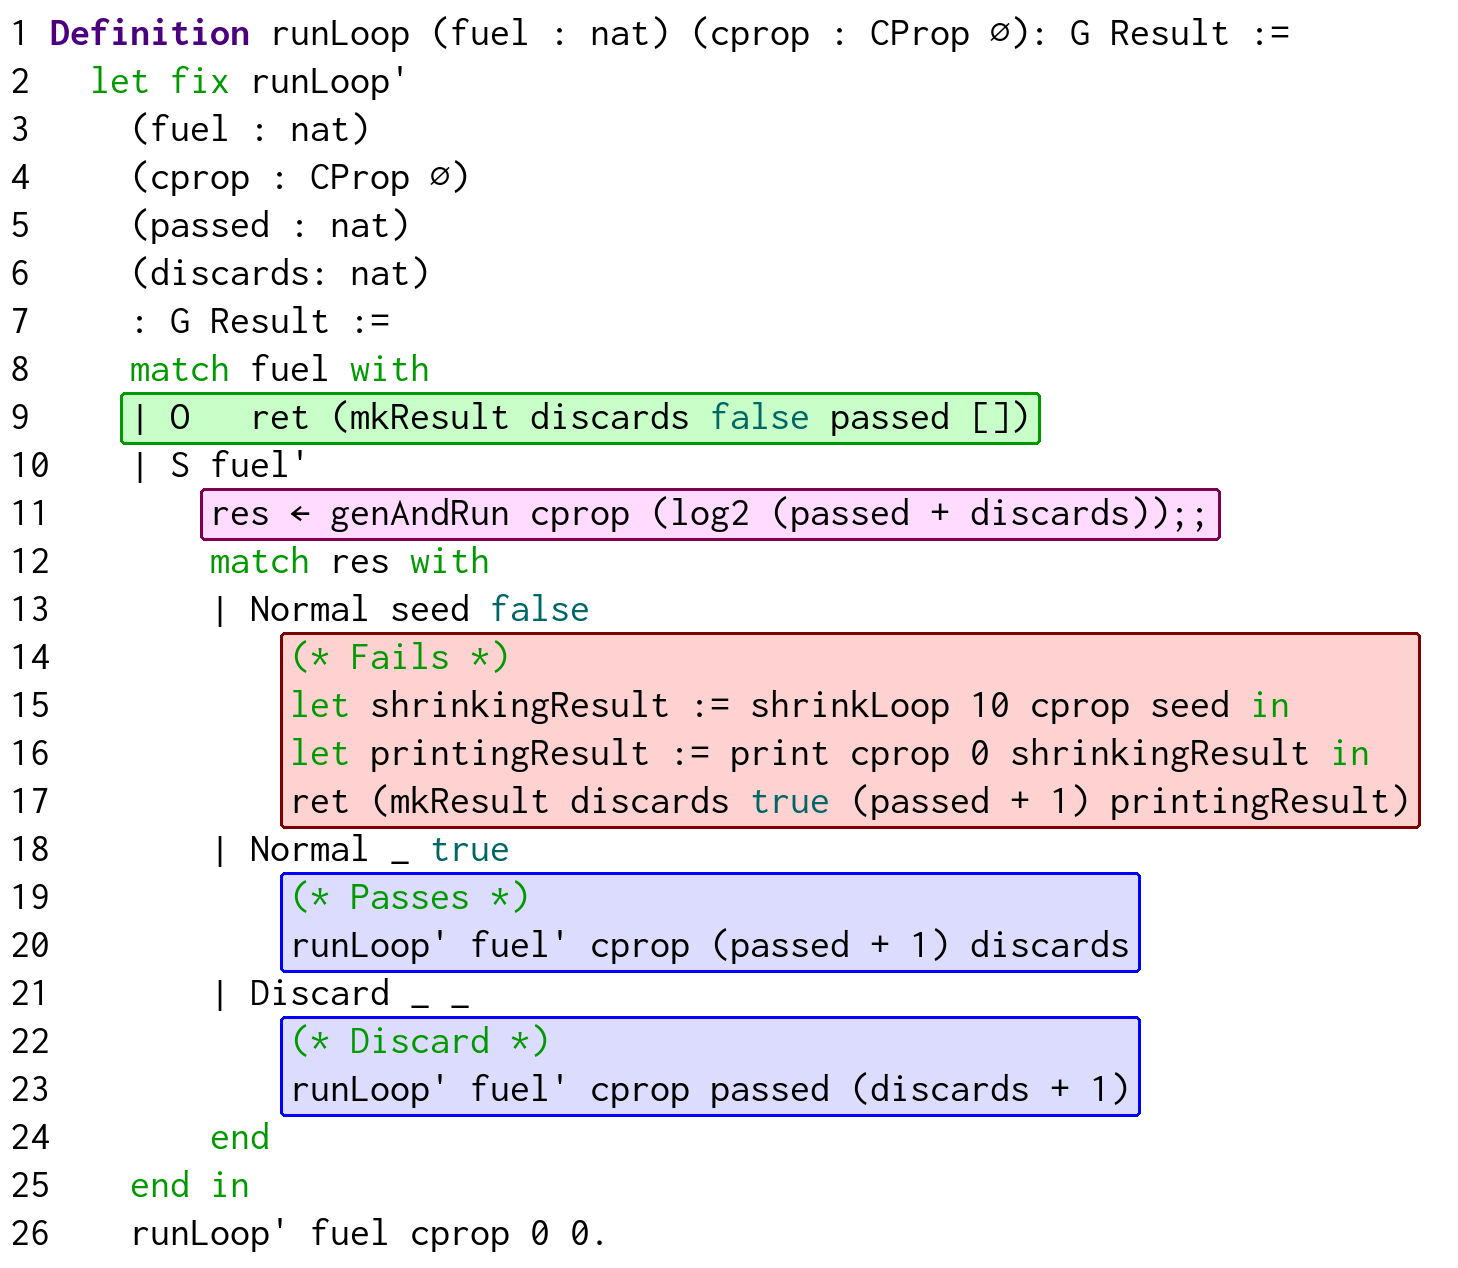
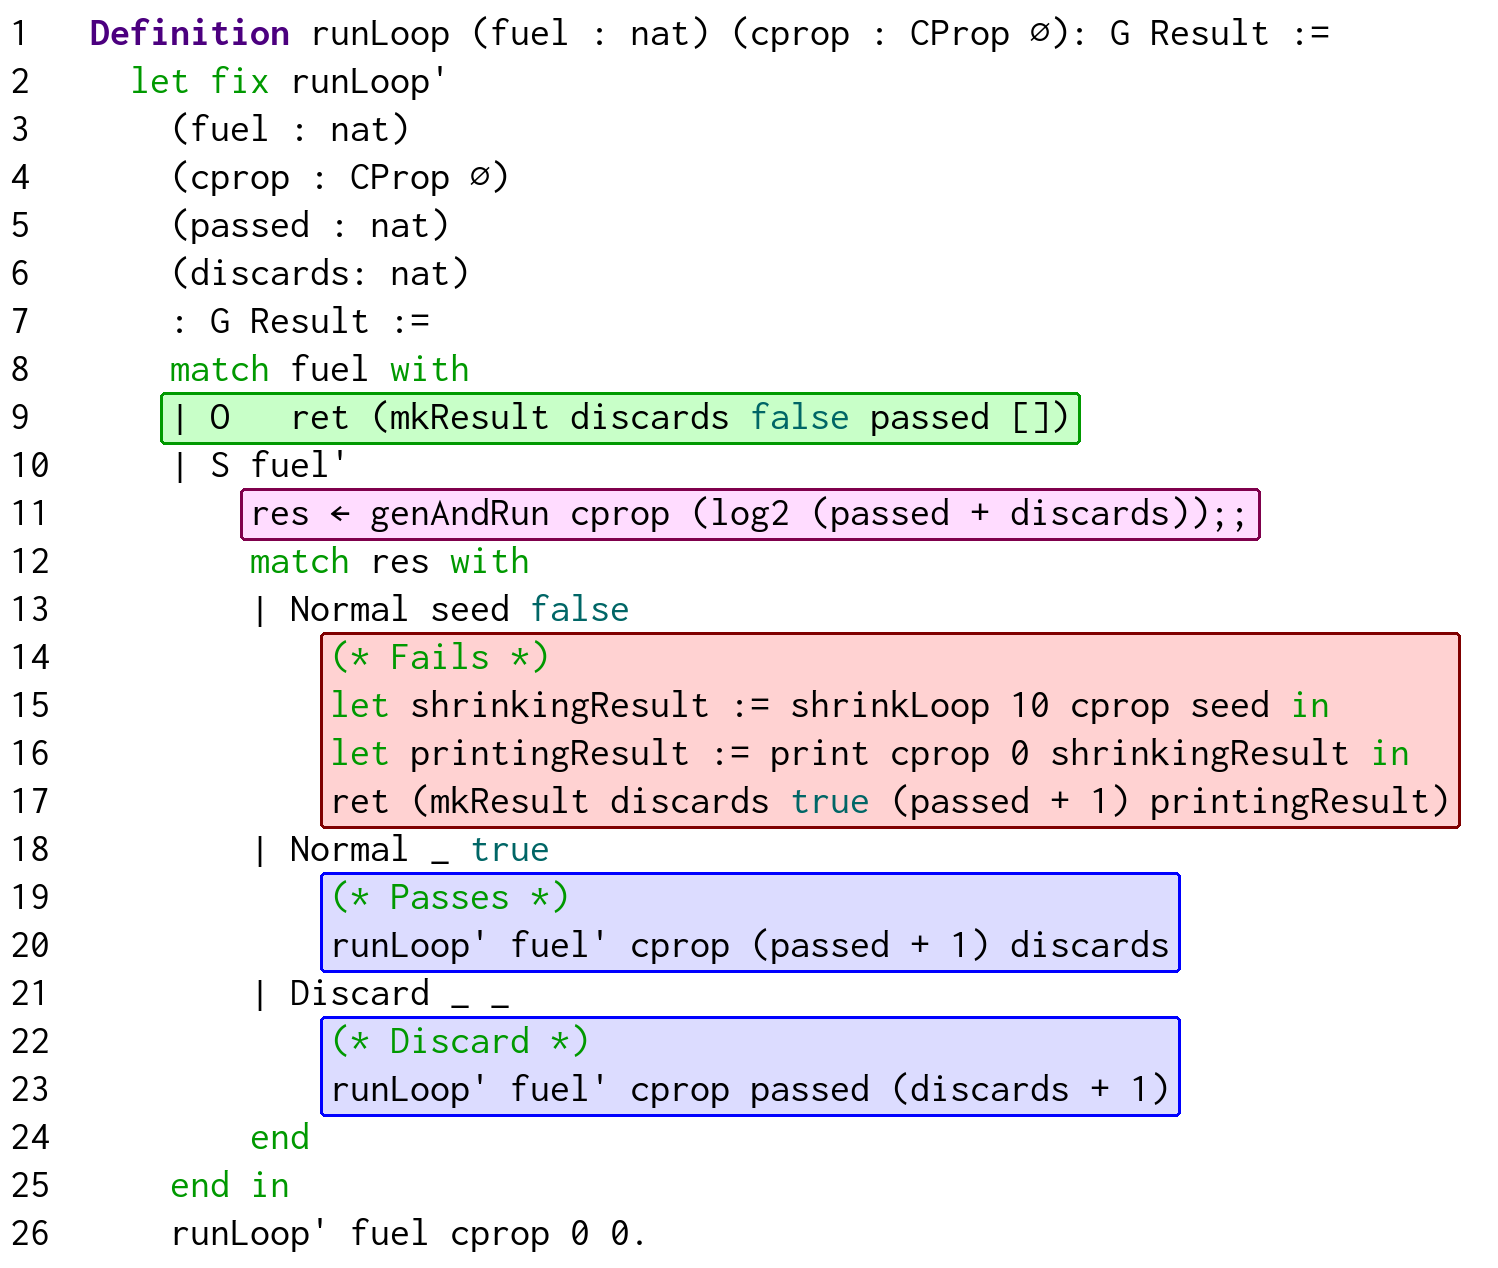
add labels and children

diff --git a/coderender.py b/coderender.py
@@ -235,24 +235,20 @@ colors = {
     "dkgreen": (0, int(0.6 * 255), 0),
     "ltgreen": (200, 255, 200),
     "bggreen": (200, 255, 200),
-
     "dkblue": (0, 0, 255),
     "ltblue": (0, int(0.4 * 255), int(0.4 * 255)),
     "bgblue": (220, 220, 255),
-    
     "dkviolet": (int(0.3 * 255), 0, int(0.5 * 255)),
     "ltviolet": (255, 200, 255),
     "bgviolet": (255, 200, 255),
-    
     "dkpurple": (int(0.5 * 255), 0, int(0.3 * 255)),
     "ltpurple": (255, 220, 255),
     "bgpurple": (255, 220, 255),
-    
     "dkred": (int(0.5 * 255), 0, 0),
     "ltred": (255, 210, 210),
     "bgred": (255, 210, 210),
-    
     "black": (0, 0, 0),
+    "white": (255, 255, 255),
 }
 
 ligatures = {
@@ -266,6 +262,7 @@ ligatures = {
     "===>": "==>",
 }
 
+
 def tokenize(code):
     # A token is either a string or a whitespace character
     tokens = []
@@ -277,11 +274,10 @@ def tokenize(code):
                 current_token = ""
             tokens.append(char)
         else:
-            current_token += char 
+            current_token += char
     if current_token:
         tokens.append(current_token)
     return tokens
-
 
 
 def line_widths(elements):
@@ -302,8 +298,10 @@ def render_coq(code, font_size, line_numbers, markers, output_file):
         # "N": ImageFont.truetype("Libertine/LinLibertine_R.ttf", font_size),
         # "B": ImageFont.truetype("Libertine/LinLibertine_RB.ttf", font_size),
         # "I": ImageFont.truetype("Libertine/LinLibertine_RI.ttf", font_size),
-        'N': ImageFont.truetype("Inconsolata/static/Inconsolata-Regular.ttf", font_size),
-        'B': ImageFont.truetype("Inconsolata/static/Inconsolata-Bold.ttf", font_size),
+        "N": ImageFont.truetype(
+            "Inconsolata/static/Inconsolata-Regular.ttf", font_size
+        ),
+        "B": ImageFont.truetype("Inconsolata/static/Inconsolata-Bold.ttf", font_size),
         # 'I': ImageFont.truetype("/Users/akeles/Programming/projects/PbtBenchmark/coderenderer/Inconsolata/static/Incosolata-Italic.ttf", font_size),
     }
 
@@ -313,18 +311,21 @@ def render_coq(code, font_size, line_numbers, markers, output_file):
     code = code.strip()
     elements = []
 
+    def marker_to_element(marker):
+        return {
+            "type": "line_based_rounded_rectangle",
+            "lines": marker["lines"],
+            "fill": colors["bg" + marker["color"]],
+            "outline": colors["dk" + marker["color"]],
+            "children": list(map(marker_to_element, marker.get("children", []))),
+            "label": marker.get("label"),
+            "width": 3,
+            "radius": 5,
+            "z": 0,
+        }
+
     for marker in markers:
-        elements.append(
-            {
-                "type": "line_based_rounded_rectangle",
-                "lines": marker["lines"],
-                "fill": colors["bg" + marker["color"]],
-                "outline": colors["dk" + marker["color"]],
-                "width": 3,
-                "radius": 5,
-                "z": 0,
-            }
-        )
+        elements.append(marker_to_element(marker))
 
     CODE_START_AT = 10
     LINE_HEIGHT = font_size * 6 // 5
@@ -334,7 +335,7 @@ def render_coq(code, font_size, line_numbers, markers, output_file):
     line = 1
 
     if line_numbers:
-        CODE_START_AT = 50
+        CODE_START_AT = 10 + font_size * 2
         x = CODE_START_AT
 
         for i in range(1, code.count("\n") + 2):
@@ -408,9 +409,34 @@ def render_coq(code, font_size, line_numbers, markers, output_file):
     # Height is LINE_HEIGHT per line, plus 20 for padding
     height = (1 + code.count("\n")) * LINE_HEIGHT + 20
     # Width is the width of the longest line, plus 20 for padding, and 50 if line numbers are enabled
-    width = max(line_widths(elements)) + CODE_START_AT + (LINE_HEIGHT if line_numbers else 20)
+    width = (
+        max(line_widths(elements))
+        + CODE_START_AT
+        + (LINE_HEIGHT if line_numbers else 20)
+    )
     img = Image.new("RGB", (width, height), (255, 255, 255))
     draw = ImageDraw.Draw(img)
+
+    def render_rounded_rectangle(element):
+        left = 999999
+        right = 0
+        for line in range(element["lines"][0], element["lines"][1] + 1):
+            line_tokens = list(
+                filter(lambda x: x["type"] == "text" and x["line"] == line, elements)
+            )
+            line_tokens = list(
+                filter(lambda x: x["text"] not in ["\t", " ", "\n"], line_tokens)
+            )
+            line_tokens = sorted(line_tokens, key=lambda x: x["x"])
+            first_token = line_tokens[0]
+            last_token = line_tokens[-1]
+            left = min(left, first_token["x"])
+            right = max(right, last_token["x"] + last_token["width"])
+
+        top = LINE_HEIGHT * element["lines"][0] - LINE_HEIGHT * 5 // 6
+        bottom = LINE_HEIGHT * element["lines"][1] + LINE_HEIGHT // 4
+
+        return {"left": left - 10, "top": top, "right": right + 10, "bottom": bottom}
 
     for element in elements:
         match element["type"]:
@@ -437,29 +463,83 @@ def render_coq(code, font_size, line_numbers, markers, output_file):
                     radius=element["radius"],
                 )
             case "line_based_rounded_rectangle":
-                # Find the first and last non-whitespace token in all lines, take the max and min x
-                left = 999999
-                right = 0
-                for line in range(element["lines"][0], element["lines"][1] + 1):
-                    line_tokens = list(filter(lambda x: x["type"] == "text" and x["line"] == line, elements))
-                    line_tokens = list(filter(lambda x: x["text"] not in ["\t", " ", "\n"], line_tokens))
-                    line_tokens = sorted(line_tokens, key=lambda x: x["x"])
-                    print(line)
-                    first_token = line_tokens[0]
-                    last_token = line_tokens[-1]
-                    left = min(left, first_token["x"])
-                    right = max(right, last_token["x"] + last_token["width"])
+                element["children"] = element.get("children", [])
+                bbox = render_rounded_rectangle(element)
 
-                top = LINE_HEIGHT * element["lines"][0] - LINE_HEIGHT * 5 // 6
-                bottom = LINE_HEIGHT * element["lines"][1]  + LINE_HEIGHT // 4
+                if len(element["children"]) > 0:
+                    print(element["children"])
+                    for child in element["children"]:
+                        child_bbox = render_rounded_rectangle(child)
+                        child["bbox"] = child_bbox
+
+                    leftmost_child = min(
+                        [child["bbox"]["left"] for child in element["children"]]
+                    )
+                    rightmost_child = max(
+                        [child["bbox"]["right"] for child in element["children"]]
+                    )
+                    topmost_child = min(
+                        [child["bbox"]["top"] for child in element["children"]]
+                    )
+                    bottommost_child = max(
+                        [child["bbox"]["bottom"] for child in element["children"]]
+                    )
+
+                    if leftmost_child == bbox["left"]:
+                        bbox["left"] -= 10
+                    if rightmost_child == bbox["right"]:
+                        bbox["right"] += 10
+                    if topmost_child == bbox["top"]:
+                        bbox["top"] -= 10
+                    if bottommost_child == bbox["bottom"]:
+                        bbox["bottom"] += 10
 
                 draw.rounded_rectangle(
-                    [left - 10, top, right + 10, bottom],
+                    (bbox["left"], bbox["top"], bbox["right"], bbox["bottom"]),
                     fill=element["fill"],
                     outline=element["outline"],
                     width=element["width"],
                     radius=element["radius"],
                 )
+
+                if element.get("label"):
+                    size = LINE_HEIGHT * 2
+                    right_offset = size if bbox["right"] + size < width - 10 else width - 10 - bbox["right"]
+                    draw.ellipse(
+                        (
+                            bbox["right"] - (size - right_offset),
+                            bbox["top"] - size,
+                            bbox["right"] + right_offset,
+                            bbox["top"],
+                        ),
+                        fill=colors["white"],
+                        outline=colors["black"],
+                        width=5,
+                    )
+
+                    draw.text(
+                        (
+                            bbox["right"] - (size - right_offset) + size // 2 - font_size // 5,
+                            bbox["top"] - size + size // 4,
+                        ),
+                        element["label"],
+                        font=fonts["B"],
+                        fill=colors["black"],
+                    )
+
+                for child in element.get("children", []):
+                    draw.rounded_rectangle(
+                        (
+                            child["bbox"]["left"],
+                            child["bbox"]["top"],
+                            child["bbox"]["right"],
+                            child["bbox"]["bottom"],
+                        ),
+                        fill=child["fill"],
+                        outline=child["outline"],
+                        width=element["width"],
+                        radius=element["radius"],
+                    )
 
     img.save(output_file)
 
@@ -494,16 +574,14 @@ Definition runLoop (fuel : nat) (cprop : CProp ∅): G Result :=
 """
 
 markers = [
-    { "lines": (9, 9), "color": "green" },
-    { "lines": (11, 11), "color": "purple" },
-    { "lines": (14, 17), "color": "red" },
-    { "lines": (19, 20), "color": "blue" },
-    { "lines": (22, 23), "color": "blue" },
+    {"lines": (9, 9), "color": "green"},
+    {"lines": (11, 11), "color": "purple"},
+    {"lines": (14, 17), "color": "red"},
+    {"lines": (19, 20), "color": "blue"},
+    {"lines": (22, 23), "color": "blue"},
 ]
 
 render_coq(code, 40, True, markers, "runLoop.png")
-
-
 
 
 code = """
@@ -550,12 +628,82 @@ Definition targetLoop (fuel : nat) (cprop : CProp ∅)
 """
 
 markers = [
-    { "lines": (11, 11), "color": "green" },
-    { "lines": (14, 14), "color": "purple" },
-    { "lines": (17, 20), "color": "red" },
-    { "lines": (22, 33), "color": "blue" },
-    { "lines": (36, 37), "color": "blue" },
+    {"lines": (11, 11), "color": "green"},
+    {"lines": (14, 14), "color": "purple"},
+    {"lines": (17, 20), "color": "red"},
+    {"lines": (22, 33), "color": "blue"},
+    {"lines": (36, 37), "color": "blue"},
 ]
 
 render_coq(code, 40, True, markers, "targetLoop.png")
 
+
+code = """
+Definition fuzzLoop (fuel : nat) (cprop : CProp ∅)
+    {Pool : Type} {poolType: @SeedPool (⟦⦗cprop⦘⟧) Z Pool}
+    (seeds : Pool) (utility: Utility) : G Result :=
+    let fix fuzzLoop' (fuel : nat) (passed : nat)
+            (discards: nat) {Pool : Type}
+            (seeds : Pool) (poolType: @SeedPool (⟦⦗cprop⦘⟧) Z Pool)
+            (utility: Utility) : G Result :=
+        match fuel with
+        | O => ret (mkResult discards false passed [])
+        | S fuel' => 
+            let directive := sample seeds in
+            res <- instrumentedGenAndRunWithDirective cprop directive withInstrumentation (log2 (passed + discards));;
+            let '(res, feedback) := res in
+            match res with
+            | Normal seed false =>
+                (* Fails *)
+                let shrinkingResult := shrinkLoop 10 cprop seed in
+                let printingResult := print cprop 0 shrinkingResult in
+                ret (mkResult discards true (passed + 1) printingResult)
+            | Normal seed true =>
+                (* Passes *)
+                match useful seeds feedback with
+                | true =>
+                    let seeds' := invest (seed, feedback) seeds in
+                    fuzzLoop' fuel' (passed + 1) discards seeds' poolType utility
+                | false =>
+                    let seeds' := match directive with
+                                    | Generate => seeds
+                                    | Mutate _ => revise seeds
+                                    end in
+                    fuzzLoop' fuel' (passed + 1) discards seeds' poolType utility
+                end
+            | Discard _ _ => 
+                (* Discard *)
+                match directive with
+                | Generate => fuzzLoop' fuel' passed (discards + 1) seeds poolType utility
+                | Mutate source =>
+                    let feedback := feedback / 3 in
+                    match useful seeds feedback with
+                    | true =>
+                        fuzzLoop' fuel' passed (discards+1) seeds poolType utility
+                    | false =>
+                        fuzzLoop' fuel' passed (discards+1) (revise seeds) poolType utility
+                    end
+                end
+            end
+        end in
+        fuzzLoop' fuel 0 0 seeds poolType utility.
+"""
+
+
+markers = [
+    {"lines": (9, 9), "color": "green", "label": "1"},
+    {"lines": (12, 12), "color": "purple", "label": "2"},
+    {"lines": (16, 19), "color": "red", "label": "3"},
+    {
+        "lines": (21, 32),
+        "color": "blue",
+        "children": [
+            {"lines": (24, 25), "color": "red"},
+            {"lines": (27, 31), "color": "red"},
+        ],
+        "label": "4"
+    },
+    {"lines": (36, 37), "color": "blue", "label": "5"},
+]
+
+render_coq(code, 40, True, markers, "fuzzLoop.png")
